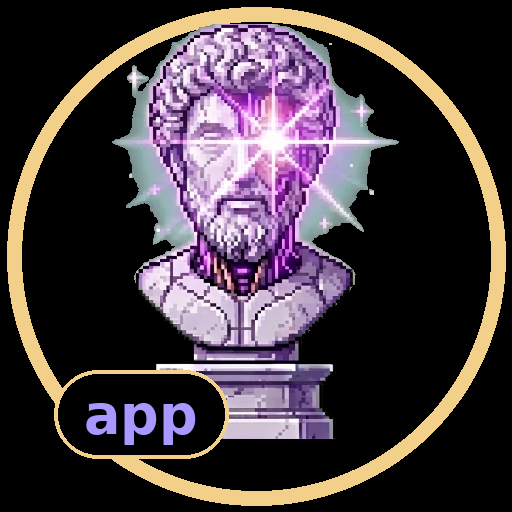
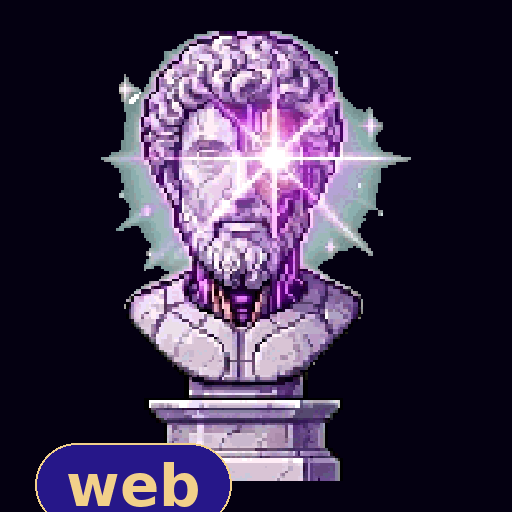
feat(iconos): el busto ocupa el icono, y la pegatina se sale por abajo
El maskable tenia el busto a un tercio del lienzo y el rotulo flotando en el
centro, asi que el lanzador --que recorta-- enseñaba una cara diminuta perdida
en blanco. Y los dos juegos estaban CRUZADOS: `icon-app-512.png` decia «web».

Ahora los seis salen de `herramientas/iconos.py`, que compone en vez de que lo
haga la mano: el rotulo sale del nombre del fichero, asi que no se pueden
volver a cruzar. El busto ocupa el 88 % del alto --imponente, con respiro,
porque llenar de borde a borde se ve apretado al lado de las demas apps-- y la
pegatina va abajo a la izquierda saliendose un sexto de su alto por el borde,
para que parezca puesta encima y no dibujada dentro.

TRES COSAS QUE EL GATE ENSEÑO, y las tres estan en el guion:
  · el maskable se recorta a un circulo y hay una prueba que lo mide de verdad.
    La pildora se coloco a ojo, salio a 238 px del centro con 205 de radio
    seguro, y se caza. Ahora la posicion se DESPEJA de la geometria.
  · los iconos del manifiesto tienen techo de 256 KB. A 24 bits sumaban 477.
    En paleta de 256 colores bajan a 97 y no se pierde nada visible.
  · el arte es pixel art: se escala con NEAREST. LANCZOS le promedia los bordes
    hasta dejarlo turbio, que es la leccion que ya costo las tiras de la cara.

Y el recorte del fondo va por INUNDACION DESDE EL BORDE, no por umbral de
blanco: un umbral se comia las chispas blancas del destello, que son dibujo y
no fondo. Se retira lo blanco conectado al borde y lo de dentro se queda.
[…]

diff --git a/herramientas/iconos.py b/herramientas/iconos.py
@@ -1,0 +1,91 @@
+#!/usr/bin/env python3
+"""Genera los seis iconos de la web desde el busto del icono.
+
+EL ARTE ES `busto-icono.png`, recortado del icono anterior y con el blanco
+pasado a transparente. Se escala con NEAREST y no con LANCZOS: es pixel art,
+y LANCZOS le promedia los bordes hasta dejarlo turbio -- la misma leccion que
+ya costo las tiras de la cara.
+
+POR QUE EXISTE. Los iconos estaban compuestos a mano y se veia: en el maskable
+el busto ocupaba un tercio del lienzo y el rotulo flotaba en el centro, asi que
+el lanzador de Android --que recorta el maskable-- enseñaba una cara diminuta
+perdida en blanco. Y los dos juegos estaban CRUZADOS: `icon-app-512.png` decia
+«web». Un guion que los rehace evita las dos cosas: la composicion deja de
+depender de la mano y el rotulo sale del nombre del fichero.
+
+LA CARA ES EL ICONO. Ocupa casi todo el alto y deja un respiro, porque una app
+que llena el lienzo de borde a borde se ve apretada al lado de las demas.
+
+EL ROTULO ES UNA PEGATINA. Va abajo a la izquierda y se sale del lienzo por su
+parte inferior --alrededor de un sexto de su alto-- para que parezca pegado
+encima y no dibujado dentro. En el maskable NO se sale: ahi el lanzador recorta,
+y lo que se salga desaparece.
+"""
+import pathlib
+from PIL import Image, ImageDraw, ImageFont
+
+AQUI = pathlib.Path(__file__).resolve().parent.parent / "public" / "assets"
+CARA = AQUI / "caras" / "busto-icono.png"
+FUENTE = "/usr/share/fonts/truetype/dejavu/DejaVuSans-Bold.ttf"
+
+FONDO = (10, 8, 18)          # el negro de la casa, no un negro puro
+PILDORA = (38, 23, 137)      # --indigo fijo: el mismo de la nube de la portada
+TINTA = (242, 208, 138)      # --oro. Sobre indigo mide 9,04:1
+
+def compon(rotulo, lado, maskable):
+    im = Image.new("RGBA", (lado, lado), FONDO + (255,))
+    cara = Image.open(CARA).convert("RGBA")
+
+    # El maskable se recorta a un circulo, y el gate lo comprueba de verdad. Un
+    # cuadrado centrado solo cabe en un circulo del 80 % si su lado no pasa del
+    # 56 %; la cara tiene esquinas transparentes, asi que el 62 % entra. La cifra
+    # sale de la geometria, no del gusto.
+    alto = int(lado * (0.62 if maskable else 0.88))
+    esc = alto / cara.height
+    cara = cara.resize((max(1, int(cara.width * esc)), alto), Image.NEAREST)
+    im.alpha_composite(cara, ((lado - cara.width) // 2, (lado - alto) // 2))
+
+    # La pegatina.
+    d = ImageDraw.Draw(im)
+    cuerpo = max(11, int(lado * 0.115))
+    f = ImageFont.truetype(FUENTE, cuerpo)
+    izq, arr, der, aba = d.textbbox((0, 0), rotulo, font=f)
+    tw, th = der - izq, aba - arr
+    pad_x, pad_y = int(cuerpo * 0.55), int(cuerpo * 0.34)
+    pw, ph = tw + pad_x * 2, th + pad_y * 2
+
+    if maskable:
+        # DENTRO DEL CIRCULO, y la posicion se calcula en vez de tantearla: la
+        # esquina mas lejana de la pildora tiene que caber en el radio seguro
+        # (40 % del lado). Centrada en x, se despeja cuanto puede bajar. Se
+        # tanteo primero a ojo y el gate la caza dos veces: la geometria es mas
+        # barata que el tanteo.
+        import math
+        x = (lado - pw) // 2
+        radio = 0.40 * lado - lado * 0.015
+        dy = math.sqrt(max(0.0, radio ** 2 - (pw / 2) ** 2))
+        y = int(lado / 2 + dy) - ph
+    else:
+        # Pegada abajo a la izquierda y saliendose por abajo un sexto de su
+        # alto: asi parece puesta encima y no dibujada dentro.
+        x = int(lado * 0.07)
+        y = lado - ph + int(ph * 0.17)
+    r = ph // 2
+    d.rounded_rectangle([x, y, x + pw, y + ph], radius=r, fill=PILDORA + (255,),
+                        outline=TINTA + (255,), width=max(2, lado // 190))
+    d.text((x + pad_x - izq, y + pad_y - arr), rotulo, font=f, fill=TINTA + (255,))
+    # PALETA DE 256 COLORES, y no es tacañeria: el gate pone techo a lo que
+    # suman los iconos del manifiesto --256 KB-- porque un PNG de un mega se
+    # cuela sin que nadie lo mire. A 24 bits estos sumaban 477 KB. La cara es
+    # marmol y violeta: en paleta no pierde nada visible y baja a un tercio.
+    return im.convert("RGB").quantize(colors=256, method=Image.MAXCOVERAGE)
+
+def main():
+    for clave, rotulo in (("app", "app"), ("pwa", "web")):
+        for lado in (192, 512):
+            compon(rotulo, lado, False).save(AQUI / f"icon-{clave}-{lado}.png", optimize=True)
+        compon(rotulo, 512, True).save(AQUI / f"icon-{clave}-512-maskable.png", optimize=True)
+    print("seis iconos regenerados desde", CARA.name)
+
+if __name__ == "__main__":
+    main()
